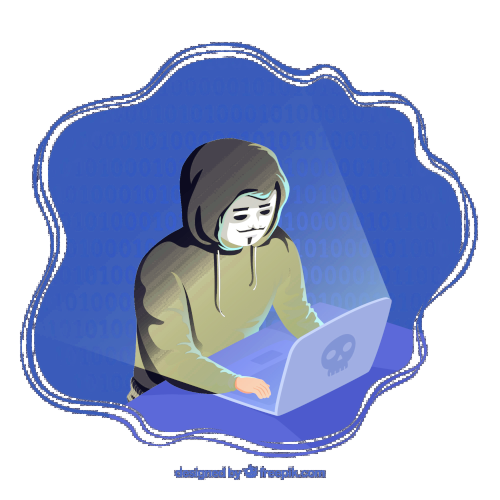
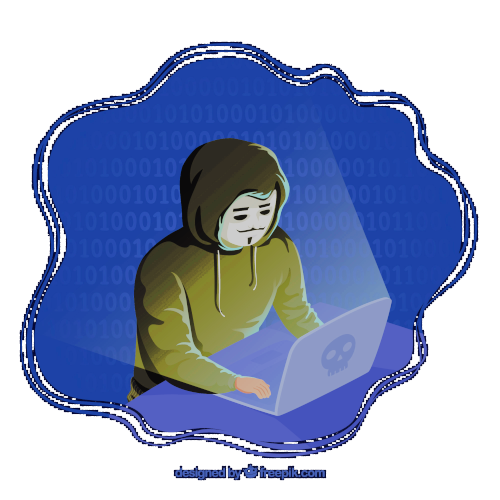
update image

diff --git a/index.html b/index.html
@@ -43,7 +43,7 @@
                 </div>
             </div>
             <div class="col-6">
-                <img src="./img/hacker_light.png" />
+                <img src="./img/hacker.png" />
             </div>
         </div>
     </div>
